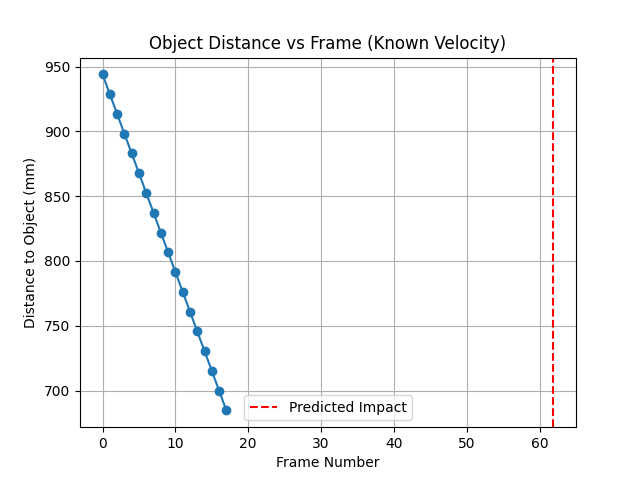
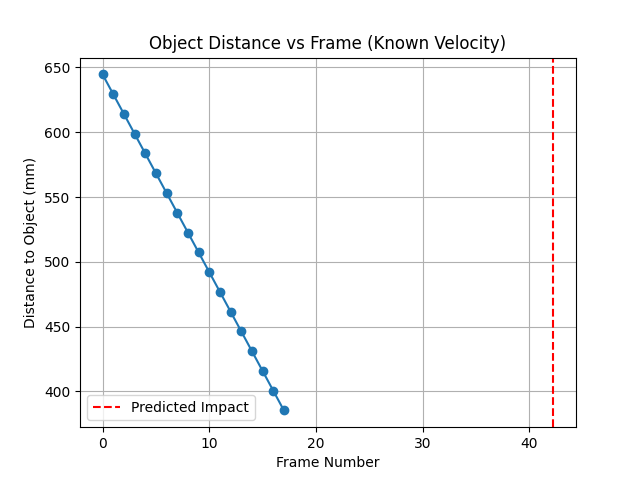
hw done time to impact

diff --git a/time_to_impact/time_to_impact_3.py b/time_to_impact/time_to_impact_3.py
@@ -135,7 +135,7 @@ plt.title("Object Distance vs Frame (Known Object Size & Camera Parameters)")
 
 plt.grid()
 
-plt.savefig("output3/distance_vs_frame.png")
+plt.savefig("distance_vs_frame_3.png")
 
 print("Saved tracking images and distance plot to output3/")
 print("distance from last image: ", distances[-1], "mm")

diff --git a/time_to_impact/time_to_impact_2.py b/time_to_impact/time_to_impact_2.py
@@ -6,7 +6,7 @@ frames = 18
 motion_per_frame = 15.25  # mm
 
 # impact frame from Task 1
-impact_frame = 61.9
+impact_frame = 42.27
 
 frame_numbers = np.arange(frames)
 

diff --git a/time_to_impact/time_to_impact_1.py b/time_to_impact/time_to_impact_1.py
@@ -220,4 +220,4 @@ plt.title("Time To Impact Estimate")
 
 plt.grid()
 
-plt.savefig("output1/ttc_vs_frame.png")
+plt.savefig("ttc_vs_frame_1.png")
